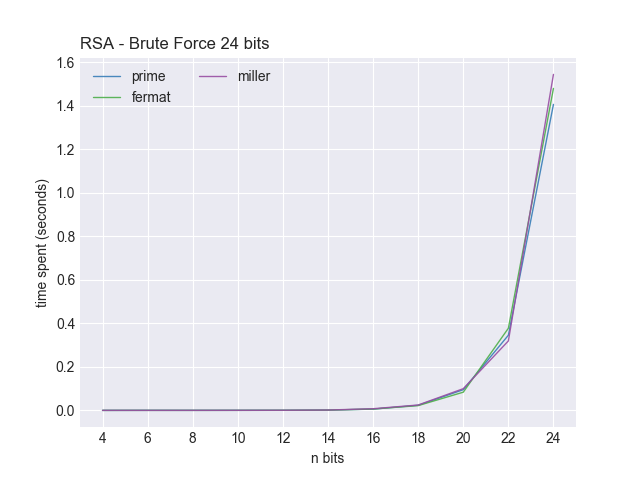
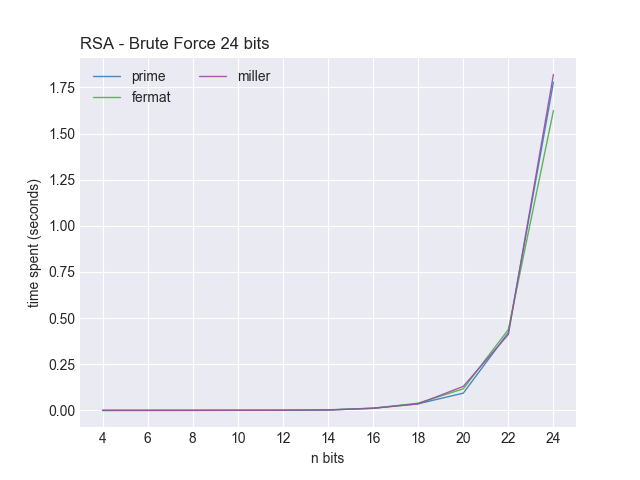
save times

diff --git a/rsa_benchmark.py b/rsa_benchmark.py
@@ -16,13 +16,13 @@ def rsa_benchmark(message: str ="Hello World!", bits_limit: int = 24, type: str 
     '''
     timesEncrypt = []
     timesBreak = []
-
+    fileName = f"./files/{bits_limit}_{type}_{method}.time"
+    fileTime = open(fileName, "w+")
     for i in range(2, bits_limit // 2 + 1):
         #comeca com 4 bits pq é o mínimo para phi suportar abela ASCII
         bit = i * 2 #tamanho máximo (multiplica n bits por n bits)
         timeEncrypt = []
-        timeBrutal = []
-        
+        timeBreak = []
         average = timesAverage
         for m in range(0, timesAverage):
             print(f"Executando com {bit} bits type={type} method={method} - Tentativa {m}")
@@ -53,7 +53,8 @@ def rsa_benchmark(message: str ="Hello World!", bits_limit: int = 24, type: str 
 
             start = time.time()
             broken_message = rsa.brutalForce(coded_message, publicKey)
-            timeBrutal.append(time.time() - start)
+            timeBreak.append(time.time() - start)
+            print(time.time() - start)
 
         print(f"{bit} bits - broken_message", broken_message)
         if(timesAverage > 2):
@@ -63,11 +64,14 @@ def rsa_benchmark(message: str ="Hello World!", bits_limit: int = 24, type: str 
             del timeEncrypt[0]
             del timeEncrypt[-1]
 
-            timeBrutal.sort()
-            del timeBrutal[0]
-            del timeBrutal[-1]
+            timeBreak.sort()
+            del timeBreak[0]
+            del timeBreak[-1]
         timesEncrypt.append(sum(timeEncrypt) / average)
-        timesBreak.append(sum(timeBrutal) / average)
+        timesBreak.append(sum(timeBreak) / average)
+        fileTime
+        fileTime.write(f"{bit}\t{sum(timeBreak) / average}\n")
+    fileTime.close()
 
     return (timesEncrypt, timesBreak)
 

diff --git a/main.py b/main.py
@@ -22,7 +22,7 @@ from rsa_benchmark import rsa_benchmark
 from graph import plot
 
 def call_pollard(message, bits_limit):
-    timesAverage = 1
+    timesAverage = 10
     primeEncrypt, primeBreak = rsa_benchmark(message, bits_limit, type="prime", method="pollard", timesAverage=timesAverage)
     fermatEncrypt, fermatBreak = rsa_benchmark(message, bits_limit, type="fermat", method="pollard", timesAverage=timesAverage)
     millerEncrypt, millerBreak = rsa_benchmark(message, bits_limit, type="miller", method="pollard", timesAverage=timesAverage)
@@ -61,5 +61,5 @@ def call_brute(message, bits_limit):
 
 bits_limit = 32
 message = "Projeto e Analise de Algoritmos (PAA) - Universidade do Estado de Santa Catarina (UDESC) 2019"
-call_pollard(message, bits_limit)
-# call_brute(message, bits_limit)
+# call_pollard(message, bits_limit)
+call_brute(message, bits_limit)

diff --git a/graph.py b/graph.py
@@ -7,7 +7,7 @@ def plot(valuesY: dict, title: str = "", bits: int = 0) -> None:
     # https://python-graph-gallery.com/124-spaghetti-plot/
     plt.style.use("seaborn-darkgrid")
     palette = plt.get_cmap("Set1")
-    size = len(valuesY['prime']) + 1
+    size = len(valuesY['fermat']) + 1
     valuesY.update( {"x": range(4, size* 2 + 2, 2 ) })
     df = pd.DataFrame( valuesY )
     num = 0
@@ -30,5 +30,5 @@ def plot(valuesY: dict, title: str = "", bits: int = 0) -> None:
     plt.ylabel("time spent (seconds)")
     plt.title(f"RSA - {title} {bits} bits", loc="left")
     plt.savefig(f'./images/{bits}_{title.replace(" ", "")}')
-    plt.show()
+    # plt.show()
 
